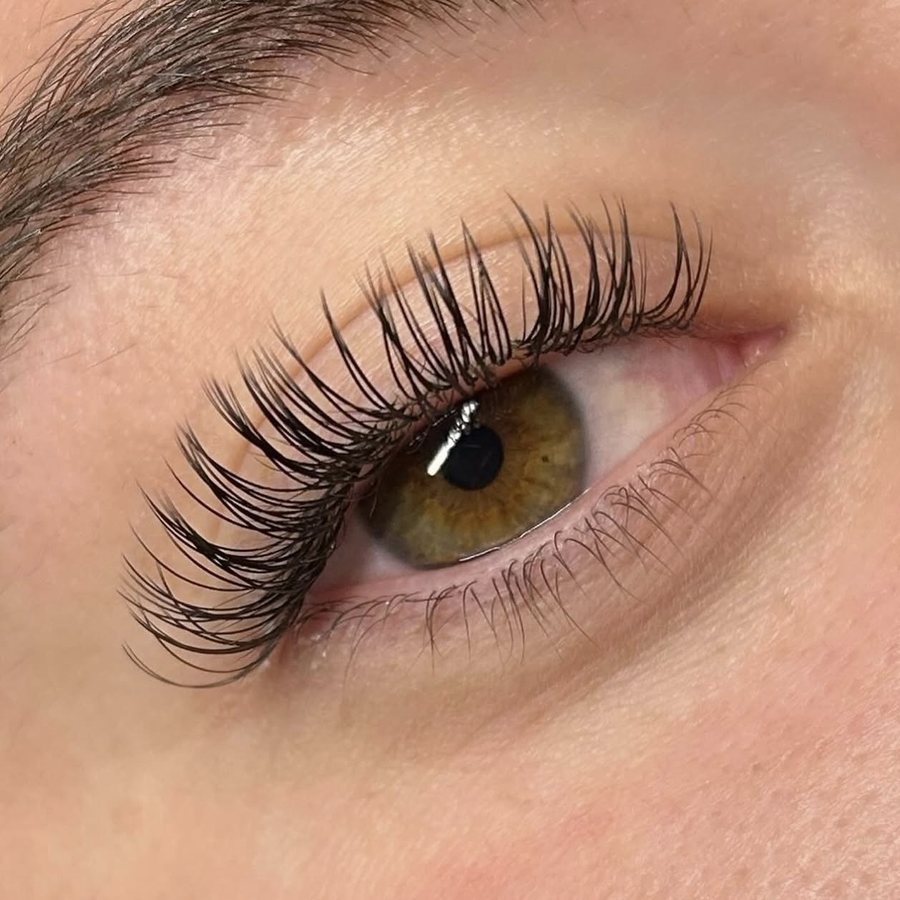
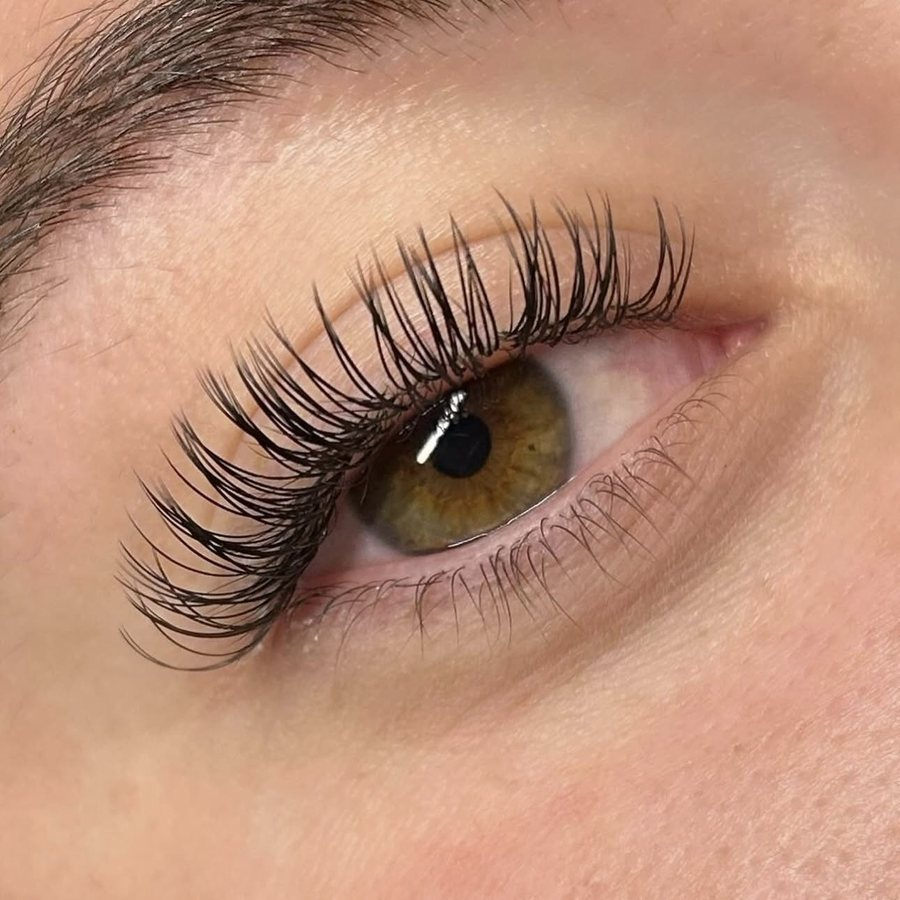
Use the salon's corrected nail photo, and trim per file
The salon re-cropped the fourth nail photo itself, so that one goes in
as delivered and the old copy is gone.

That made the family-wide top crop wrong: it existed for one photo's
"3/3" counter and was eating nine percent off the top of three others
that never needed it. Trimming is now declared file by file, and a check
of each original's edges turned up one more overlay I had missed — the
scroll indicator down the right edge of the third nail photo, the same
one already handled on a lash photo.

So: two files trimmed at the top or right, six left exactly as shot. The
script also refuses to run if that table names a file that no longer
exists, which is what a re-corrected photo looks like from the inside.

Claude-Session: https://claude.ai/code/session_019UoUbTyNjngeRaKzvfjkfZ

diff --git a/scripts/prepare-galerie.py b/scripts/prepare-galerie.py
@@ -29,27 +29,41 @@ QUALITE = 84
 # Largeur de sortie par famille, réglée sur la taille d'affichage la plus
 # grande, doublée pour les écrans à forte densité.
 #
-# `rogne_haut` et `rogne_droite` retirent une bande avant tout le reste.
-# Les réalisations sont des captures d'Instagram et portent l'interface de
-# l'application par-dessus la photo : le compteur du carrousel en haut à
-# droite des ongles (« 1/3 », « 3/3 »), la barre de défilement au bord
-# droit des cils. Ce n'est pas la photo, c'est l'écran du téléphone : on
-# le coupe. L'image est ensuite ramenée au carré en prenant le centre de
-# ce qui reste, pour que les huit gardent le même format.
 FAMILLES = {
-    'salon-*.jpg': dict(largeur=900),   # le ruban : 290 px au plus
-    'ongles-*.jpg': dict(largeur=900, rogne_haut=0.09, carre=True),
-    'cils-*.jpg': dict(largeur=900, rogne_droite=0.025, carre=True),
+    'salon-*.jpg': dict(largeur=900),               # le ruban : 290 px au plus
+    'ongles-*.jpg': dict(largeur=900, carre=True),  # « Le travail » : 420 px au plus
+    'cils-*.jpg': dict(largeur=900, carre=True),
+}
+
+# Bandes d'interface à retirer, **fichier par fichier**. Certaines
+# réalisations sont des captures d'Instagram et portent l'interface de
+# l'application par-dessus la photo : le compteur du carrousel en haut à
+# droite, la barre de défilement au bord droit. Ce n'est pas la photo,
+# c'est l'écran du téléphone, et on le coupe — puis l'image est ramenée
+# au carré par son centre.
+#
+# Au fichier et non à la famille, parce que la plupart n'ont rien à
+# retirer : rogner les quatre pour le compte de l'une aurait mangé le
+# cadrage des trois autres sans raison. Le salon a d'ailleurs recorrigé
+# une photo lui-même depuis ; sa ligne a disparu d'ici.
+INTERFACE = {
+    'ongles-2-leopard-fleur.jpg': dict(rogne_haut=0.09),     # « 3/3 »
+    'ongles-3-french-couleurs.jpg': dict(rogne_droite=0.025),  # barre de défilement
+    'cils-3.jpg': dict(rogne_droite=0.025),                  # barre de défilement
 }
 
 
 def main() -> None:
     fichiers = [(f, reglages) for motif, reglages in FAMILLES.items()
                 for f in sorted(SOURCE.glob(motif))]
+    inconnus = set(INTERFACE) - {f.name for f, _ in fichiers}
+    if inconnus:
+        raise SystemExit('INTERFACE vise des fichiers absents : ' + ', '.join(sorted(inconnus)))
     if not fichiers:
         raise SystemExit('aucune photo dans brand/')
 
-    for f, reglages in fichiers:
+    for f, famille in fichiers:
+        reglages = {**famille, **INTERFACE.get(f.name, {})}
         im = Image.open(f)
 
         haut = reglages.get('rogne_haut', 0)

diff --git a/README.md b/README.md
@@ -438,12 +438,19 @@ non crème, contrairement aux tarifs juste au-dessus — les photos y
 ressortent mieux, et le changement marque le chapitre. Deux groupes, un
 par praticienne, quatre photos chacun, en carré et à angles vifs.
 
-Les originaux sont des captures d'Instagram et portent l'interface de
-l'application **par-dessus la photo** : le compteur du carrousel en haut
-à droite des ongles (« 1/3 », « 3/3 »), la barre de défilement au bord
-droit des cils. `prepare-galerie.py` coupe ces bandes avant de réduire,
-puis ramène l'image au carré par son centre. Ce n'est pas de la retouche :
-c'est l'écran du téléphone qu'on retire, pas la photo qu'on arrange.
+Certains originaux sont des captures d'Instagram et portent l'interface
+de l'application **par-dessus la photo** : le compteur du carrousel en
+haut à droite (« 1/3 », « 3/3 »), la barre de défilement au bord droit.
+`prepare-galerie.py` coupe ces bandes avant de réduire, puis ramène
+l'image au carré par son centre. Ce n'est pas de la retouche : c'est
+l'écran du téléphone qu'on retire, pas la photo qu'on arrange.
+
+Le réglage se fait **fichier par fichier**, pas par famille : la plupart
+n'ont rien à retirer, et rogner les quatre pour le compte d'une seule
+aurait mangé le cadrage des trois autres sans raison. Le script refuse de
+tourner si cette table vise un fichier qui n'existe plus — une photo
+recorrigée par le salon, par exemple, dont la ligne doit alors
+disparaître.
 
 Les fichiers de cils sont numérotés, pas nommés par technique : on ne
 distingue pas à l'œil une pose cil à cil d'une mixte ou d'un volume
